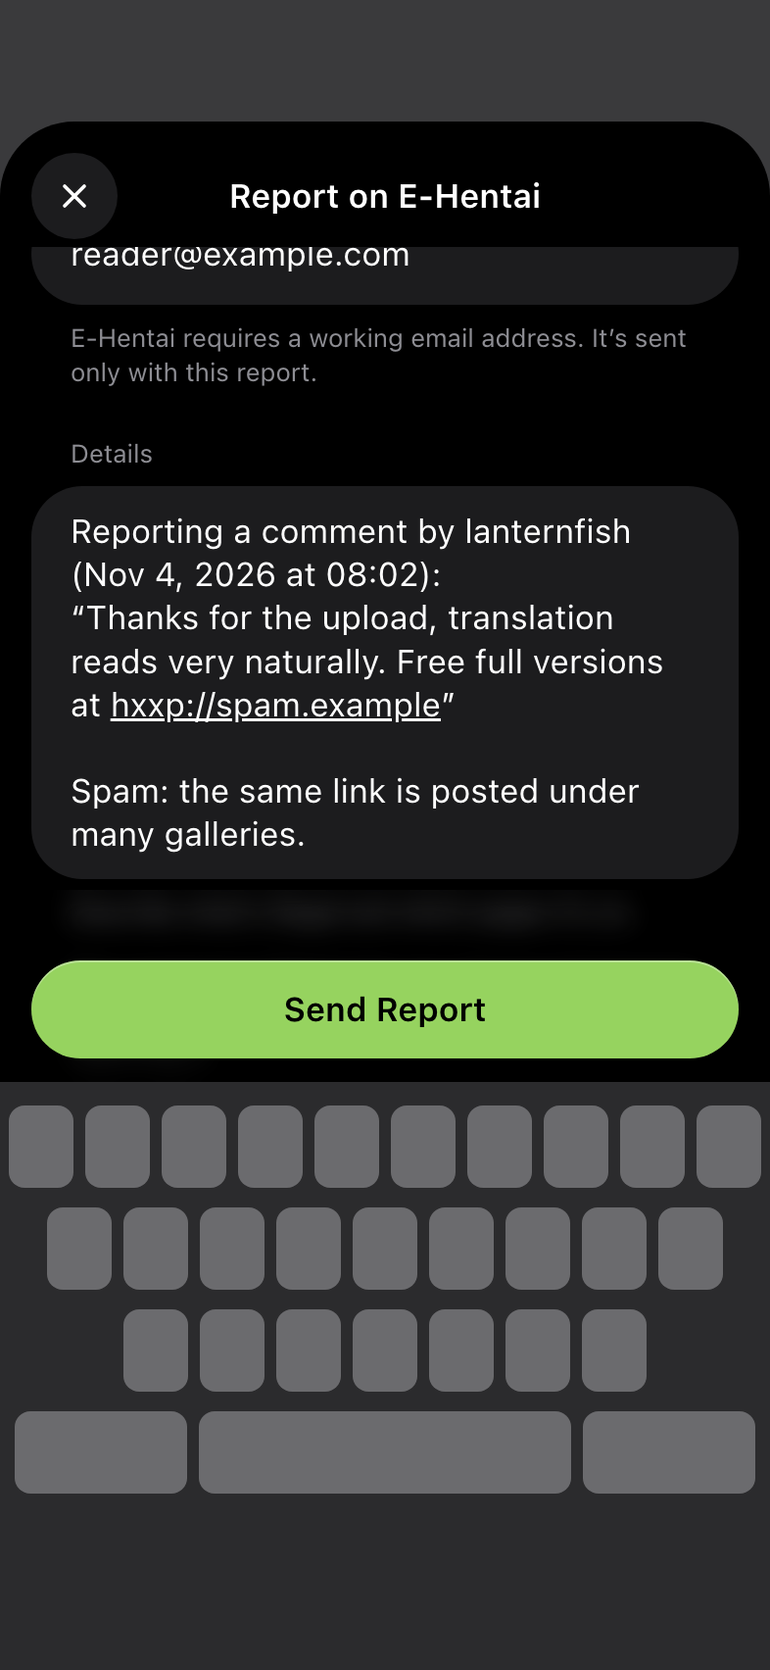
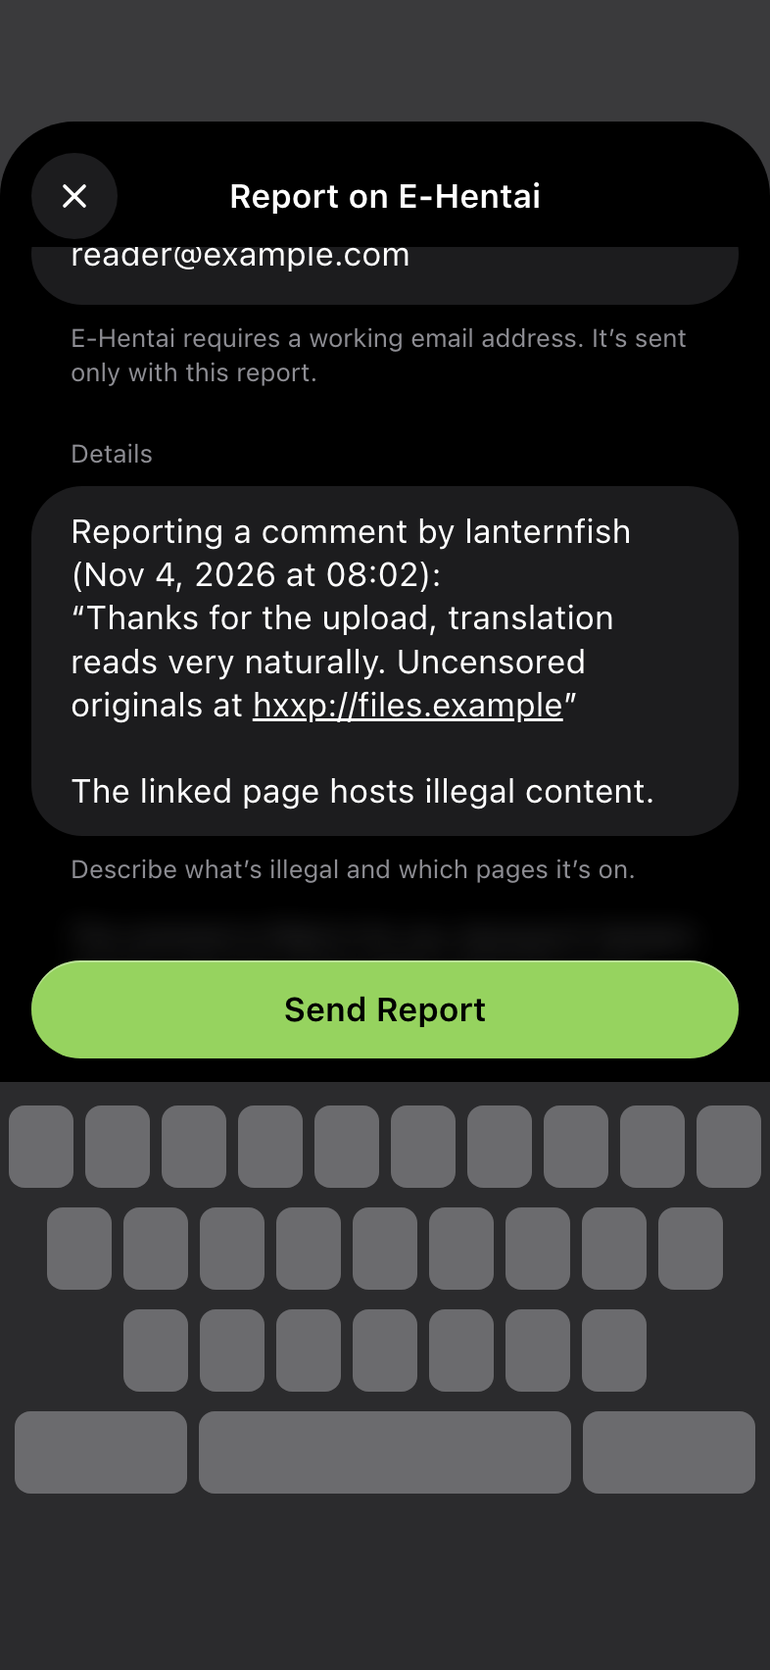
docs(18.1-04): complete the Report form view and UI tests plan
- 18.1-04-SUMMARY.md: eight task commits; DetailFeatureTests + UITestStubTests 181
  passed on both devices; the three UI classes pass on phone (45 + 2 skipped) and pad
  (46 + 1 skipped) with no retries; lint 0; both copy checks pass; the frame table for
  25-31, 33 and 34; deviations (slowLoad 6 s, holdSend 10 s, the frame-check view
  fixes, Command-Return in the iPad test, scroll to the linked comment at AX5)
- Mockups 25, 26, 27, 29 and 34: the refreshed frames with the illegal-content wording
- STATE: plan 4 of 5 done, metric and decision recorded, the frame 26 item resolved
- ROADMAP: 18.1 at 4/5, 18.1-04 checked
- UGC-18-01 is shared by all 18.1 plans, so REQUIREMENTS.md is unchanged

Changed region(s): [[0.0305, 0.4665, 0.9771, 0.5288], [0.0916, 0.3732, 0.855, 0.4354]]

diff --git a/.planning/phases/18.1-native-report-form/18.1-04-SUMMARY.md b/.planning/phases/18.1-native-report-form/18.1-04-SUMMARY.md
@@ -1,0 +1,236 @@
+---
+phase: 18.1-native-report-form
+plan: "04"
+subsystem: moderation-report-form-ui
+tags: [report, swiftui, sheet, liquid-glass, ui-tests, stubs, moderation]
+
+requires:
+  - "18.1-01 (ReportForm, the report URLs, the one-attempt send request)"
+  - "18.1-02 (the 22 report.* symbols)"
+  - "18.1-03 (ReportFormFeature, ReportFormClient, ReportPrefill, the .reportForm destinations)"
+provides:
+  - "`ReportFormView`: the C-13 sheet in its loading, ready, sending, sent, failed and unavailable states, presented from Comments and Detail"
+  - "`EHPANDA_UITEST_REPORT_SCENARIO` (ready, slowLoad, holdSend, failSend, unavailable), read only in DEBUG stubbed launches, with the ReportOther, ReportUnavailable and ReportSentStub fixtures"
+  - "`ReportFormUITests`: one UI test per C-13 state (frames 25–31, 33, 34), plus the strip entry and an accessibility audit"
+  - "`comment.report.confirm_title` / `_body` retired from the catalog and listed as retired in `18-copy-check.py`"
+affects: [18.1-05, 19]
+
+actuals:
+  tasks: 3
+  commits: 8
+
+tech-stack:
+  added: []
+  patterns:
+    - "Presenting the Report form sends its `.task` action from the presenting reducer, so the load starts without a view lifecycle hook and reducer tests see it"
+    - "A stub scenario picked by one launch key, read only when the network is stubbed and only in DEBUG, routes report queries before the gallery branch"
+    - "UI tests read a request log to prove what was posted (one POST, a second on Retry, none on an invalid email or ⌘↩ while not ready)"
+
+key-files:
+  created:
+    - AppPackage/Sources/DetailFeature/Moderation/ReportFormView.swift
+    - EhPandaUITests/ReportFormUITests.swift
+    - EhPandaUITests/Fixtures/ReportOther.html
+    - EhPandaUITests/Fixtures/ReportUnavailable.html
+    - EhPandaUITests/Fixtures/ReportSentStub.html
+  modified:
+    - AppPackage/Sources/DetailFeature/Comments/CommentsReducer.swift
+    - AppPackage/Sources/DetailFeature/Comments/CommentsView.swift
+    - AppPackage/Sources/DetailFeature/DetailReducer.swift
+    - AppPackage/Sources/DetailFeature/DetailReducer+Actions.swift
+    - AppPackage/Sources/DetailFeature/DetailView.swift
+    - AppPackage/Sources/DetailFeature/Resources/Localizable.xcstrings
+    - .planning/phases/18-in-app-3-0-readiness-age-wall-analytics-choice-comment-moder/18-copy-check.py
+    - AppPackage/Sources/AppFeature/UITestSupport/UITestStubURLProtocol.swift
+    - AppPackage/Sources/AppFeature/UITestSupport/UITestAutomation.swift
+    - AppPackage/Tests/AppFeatureTests/UITestStubTests.swift
+    - AppPackage/Tests/DetailFeatureTests/CommentModerationReducerTests.swift
+    - AppPackage/Tests/DetailFeatureTests/CommentsReducerTests.swift
+    - EhPandaUITests/Support/UITestConstants.swift
+    - EhPandaUITests/CommentModerationUITests.swift
+    - EhPandaUITests/AccessibilityAuditUITests.swift
+
+key-decisions:
+  - "The sheet is a `NavigationStack` with only the leading `Button(role: .close)` and the inline `comment.report` title. `.interactiveDismissDisabled` follows `isDismissLocked`. On iPhone it uses the large detent, on iPad the system form sheet"
+  - "The pinned bar is built like the first-launch gate's: `.safeAreaBar(edge: .bottom)` holding one `.glassProminent` `.controlSize(.large)` button, with no background, material or divider (grep 0). The form and the centred states set `.scrollEdgeEffectStyle(.soft, for: [.top, .bottom])`, following the app's scroll-edge policy, with the bottom edge under the bar"
+  - "The button's label follows the phase: Send Report, the spinner plus Sending…, Done, or Open Report Page. Labels swap with no animation. `.keyboardShortcut(.return, modifiers: .command)` is on the button, so ⌘↩ acts only when it is enabled"
+  - "The failed alert is built locally from the reducer's alert state, so Retry can be the default button (C-13 Failed) while the reducer keeps the Retry, Open Report Page, Cancel order"
+  - "Open Report Page presents the existing `ReportPageSheet` over the kept form (P-7). Both screens' `reportPage(URL)` destinations and their sheets are gone"
+  - "The slowLoad stub holds the form's GET for 6 s, holdSend holds the POST, failSend answers the POST with an error page, unavailable serves a page without `#reportform`, and ready serves ReportOther and then the ReportSentStub stand-in after the POST. No stub reaches e-hentai.org or exhentai.org"
+
+patterns-established:
+  - "18.1-05 runs the phase gate on both devices and in Release, then the agent-run Proxyman live check"
+
+requirements-completed: [UGC-18-01]
+
+coverage:
+  - id: T1
+    description: "ReportFormView, presentation and the retired keys"
+    verification:
+      - kind: automated
+        ref: "DetailFeatureTests + UITestStubTests: 181 passed (151 + 30) on $PHONE and on $PAD at 41398e24e; UITestStubTests 30 passed on $PAD at f45355fd9"
+        status: pass
+      - kind: script
+        ref: "soft scroll-edge count 2; .background|Material|Divider( 0; retired confirm keys in the catalog 0; 18-copy-check --self-test 22/22, 18-copy-check exit 0, 18.1-copy-check exit 0; SwiftLint 0.65.1 --strict 0 violations"
+        status: pass
+    human_judgment: false
+  - id: T2
+    description: "UI-test stubs for the Report form"
+    verification:
+      - kind: automated
+        ref: "UITestStubTests 30 passed on both devices (inside the 181), and again on $PAD after the holdSend change"
+        status: pass
+    human_judgment: false
+  - id: T3
+    description: "A UI test per C-13 state, the strip entry and the audit, compared against the frames"
+    verification:
+      - kind: automated
+        ref: "ReportFormUITests + CommentModerationUITests + AccessibilityAuditUITests at cfff03df8: $PHONE 47 tests, 45 passed, 2 skipped (iPad-only); $PAD 47 tests, 46 passed, 1 skipped (iPhone-only AX5); no retries"
+        status: pass
+      - kind: script
+        ref: "galleryOrigin|copyright|excupd|dmca|report_reason_revert grep 0; SwiftLint 0 violations in 152 files"
+        status: pass
+      - kind: manual
+        ref: "frame comparison table below (screenshots exported from the xcresults)"
+        status: pass
+    human_judgment: false
+
+duration: several sessions (2026-11-06 02:26Z to 2026-11-06 19:25Z)
+completed: 2026-11-06
+status: complete
+---
+# Phase 18.1 Plan 04: Report form view and UI tests Summary
+
+**Report on a comment now opens EhPanda's own Report form, drawn per UI-SPEC C-13 on iPhone and iPad. It shows two
+illegal-content reasons, an email that is never stored, the English prefill and the pinned Send Report button, and it
+falls back to the site's page. Each of the nine C-13 states has a UI test on stubbed network, and the screenshots were
+checked against frames 25–31, 33 and 34.**
+
+## Accomplishments
+
+- **The sheet (Task 1, `781536765`, fixed in `0866ba1a8`):**
+  - `ReportFormView` follows C-13 section by section: intro, Reason (two rows with a trailing accent checkmark and
+    `.isSelected`), Email with its keyboard modifiers and the red invalid footer with an announcement, Details with
+    `.lineLimit(5...)` and the footers that depend on the reason.
+  - Loading appears after 0.3 s. Unavailable is a `ContentUnavailableView` with no actions inside it. Sent shows the
+    64pt checkmark with a bounce (none under Reduce Motion), a success haptic and VoiceOver focus on the title, with
+    no Close or title. Failed is an alert over the kept form.
+  - Accessibility identifiers: `report_form`, `report_reason_<raw>`, `report_email`, `report_details`,
+    `report_primary_button`, `report_loading`, `report_unavailable`, `report_sent`, `report_illegal_warning`.
+  - CommentsView and DetailView present `.reportForm` as a sheet. The `reportPage(URL)` cases and sheets are gone.
+    The form presents `ReportPageSheet` itself.
+  - Catalog: `comment.report.confirm_title` and `_body` are removed. `18-copy-check.py` lists them as retired: a key
+    that is absent passes, a key that is present is a finding. A self-test case covers this (22/22 cases).
+- **Stubs (Task 2, `5eff640fa`, fixed in `125b92bcf` and `f45355fd9`):** `EHPANDA_UITEST_REPORT_SCENARIO` is read only in DEBUG and only
+  when the network is stubbed. Any other launch, or an unknown value, gets `ready`. Report queries are routed before
+  the `/g/` branch (F-2). Three fixtures were added, and `UITestStubTests` covers the routing for each scenario.
+- **UI tests (Task 3, `d5ba85692`, fixed in `41398e24e`, `f45355fd9` and `cfff03df8`):** `ReportFormUITests` has nine tests, one per C-13 state.
+  Each one launches stubbed with a request log and attaches screenshots.
+  - `CommentModerationUITests` now expects the form to open directly from the comments list and from a Detail strip
+    card, with no alert.
+  - `AccessibilityAuditUITests.testReportFormAudit` audits the ready form.
+
+## Tests
+
+| Run | $PHONE | $PAD |
+|-----|--------|------|
+| FeatureTests: `DetailFeatureTests` + `AppFeatureTests/UITestStubTests` | 181 passed, 0 failed | 181 passed, 0 failed |
+| UITests: `ReportFormUITests` + `CommentModerationUITests` + `AccessibilityAuditUITests` (light), final at `cfff03df8` | 47: 45 passed, 2 skipped (`testThePadFormSheetAndCommandReturn`, `testPadSettingAndDetailModalsAudit`, iPad only), no retries | 47: 46 passed, 1 skipped (`testTheLargestTextSizeKeepsTheButtonInReach`, iPhone only), no retries |
+| UITests, dark appearance: ready, typing, failed and unavailable (frames 26, 29, 30), at `41398e24e` | 4 passed | — |
+| UITests, whole plan, at `41398e24e` | 131: 110 passed, 21 skipped, 0 failed | 131: 112 passed, 18 skipped, 1 failed (`testSendingLocksTheSheet`, deviation 7; passes at `f45355fd9`) |
+| `UITestStubTests` after the holdSend change (`f45355fd9`) | — | 30 passed |
+| SwiftLint 0.65.1 `--strict --no-cache`, DetailFeature, AppFeature, their tests and EhPandaUITests | 0 violations in 152 files | |
+| Copy checks | `18-copy-check.py --self-test` 22/22; `18-copy-check.py` 36 keys × 6 locales, 60 retired texts absent; `18.1-copy-check.py` 22 keys × 6 locales | |
+| Plan greps | soft scroll-edge 2; bar background/material/divider 0; retired confirm keys 0; gallery/copyright 0 | |
+
+The first pad run of the three classes failed `testThePadFormSheetAndCommandReturn`, because ⌘↩ never reached the
+button (see deviation 3). After `41398e24e` the pad run passed. The whole-plan runs found two timing failures in this
+plan's tests: the pad sending test (deviation 7) and, in a later phone class run, the AX5 test (deviation 8). Both
+are fixed, and the three classes then passed on both devices with no retries. The whole plan was not run again
+after those two test-only fixes. 18.1-05's gate runs it on both devices. The known pad flake
+(`ReaderRebuildUITests`) did not fail. The dark run switched the phone simulator to dark and
+then back to light. No simulator was erased.
+
+No request was made to e-hentai.org or exhentai.org. Every UI test launches with the stubbed network, and the request
+log shows exactly one POST per send (two after Retry), to `/g/3103480/0000000000/`.
+
+## Frame Comparison (UI-SPEC C-13)
+
+The screenshots were exported from the xcresults, phone `FFE7E686` and pad `B470DB46`. Differences that apply to every
+frame:
+
+- The fixture data is the stub's: a Chinese comment, the UTC date from `ReportPrefill`, and `tester@example.com`.
+- The status bar is the simulator's.
+- The section headers (Reason, Email, Details) use the OS 27 system header style, which is larger and semibold. The
+  frames draw small regular headers. C-13 names the system section header, not a font, and the text wins.
+- Apostrophes are straight, as in the approved catalog strings that both copy checks verify. The frames draw curly
+  ones.
+
+| Frame | State | Screenshot | Result | Note |
+|-------|-------|------------|--------|------|
+| 25 | Ready, light | `report-25-ready` (phone light and dark; pad) | match | Close only, inline "Report on E-Hentai", two unpicked reasons, empty email, the prefill, dimmed Send Report on the bar with no background |
+| 26 | Typing, dark | `report-26-typing`, `report-26-invalid-email` (phone dark) | match | Other illegal content picked with an accent checkmark and rows in primary text (fixed in `0866ba1a8`). Shows the warning footer, the Details text "The linked page hosts illegal content." and the illegal-content help above the comment footer. The invalid shot shows the red footer with `exclamationmark.circle`. The frame is scrolled with the keyboard up; the test shot is at the top |
+| 27 | Sending, light | `report-27-sending` (phone, pad) | match | Spinner at regular size on the label's line plus "Sending…" (fixed in `0866ba1a8`). The form and Close are dimmed and a swipe keeps the sheet |
+| 28 | Sent, light | `report-28-sent` (phone, pad) | match | 64pt accent checkmark, "Report Sent", body, Done. No Close or title |
+| 29 | Failed, dark | `report-29-failed`, `report-29-site-page` (phone dark) | match | Alert over the kept form: Retry (default, fixed in `0866ba1a8`), Open Report Page, Cancel. Send Report stays live under it. The site page opens over the form |
+| 30 | Unavailable, dark | `report-30-unavailable` (phone dark) | match | Triangle, title and body with no actions inside. The bar reads Open Report Page |
+| 31 | Loading, light | `report-31-loading` (phone, pad) | match | Centred spinner over "Loading the report form…", Close, dimmed Send Report |
+| 33 | Largest text (AX5), iPhone | `report-33-ax5` (phone) | match | Intro, Reason and rows wrap. The button grows (≥ 50pt) and stays hittable. Close keeps the system size. In the test no reason is picked, so the button is dimmed; the frame draws it enabled. That is a state difference, not a layout one |
+| 34 | iPad form sheet, light | `report-34-ipad-ready`, `report-34-ipad` (pad) | match | Form sheet, not full screen, with the bar at the sheet's bottom. ⌘↩ sends when the form is ready (one POST) and sends nothing before |
+
+Frame 32 is withdrawn and has no test. The refreshed frames 25, 26, 27, 29 and 34 were found uncommitted in the
+working tree with the illegal-content Details wording. They are committed with this summary. With them, the earlier
+open item ("frame 26 shows a leftover 'Spam:'") no longer applies.
+
+## Deviations from Plan
+
+1. **[Rule 1] slowLoad holds for 6 s, not 2 s (`125b92bcf`).** The spinner appears after 0.3 s, but the test can read
+   it only once the sheet is up, about 3 s after the comment's menu. With a 2 s hold the form finished loading first.
+2. **[Rules 1/2] View fixes from the frame check (`0866ba1a8`).**
+   - Reason rows were drawn in the tint; they now use primary text.
+   - The intro was faded twice inside the header.
+   - Retry was not the alert's default button.
+   - The sending spinner was small.
+   - The top scroll edge was missing.
+   All were fixed in the view. None is recorded as an accepted difference.
+3. **[Rule 1] ⌘↩ in the iPad test (`41398e24e`).** On the iPad simulator, `typeKey(.return, modifierFlags: .command)`
+   never reached the button's shortcut, while `"\n"` with Command did. Probes showed that ⌘A and plain keys arrive.
+   Only the test changed; the view's `.keyboardShortcut(.return, modifiers: .command)` stays.
+4. **Test Details text.** The typed Details line is "The linked page hosts illegal content.", matching the refreshed
+   frames' illegal-content wording rather than a spam reason, which C-13 excludes.
+5. **[Rule 3] Files outside the plan's list.**
+   - `DetailReducer+Actions.swift`: Detail's present-the-form branch now sends the form's `.task`, as Comments does.
+   - `CommentModerationReducerTests.swift` and `CommentsReducerTests.swift`: the existing destination tests receive
+     that load.
+   - `EhPandaUITests/Support/UITestConstants.swift` (listed) holds the scenario key.
+6. **The refreshed mockups 25, 26, 27, 29 and 34** are in the docs commit. See the frame comparison.
+7. **[Rule 1] holdSend holds for 10 s, not 3 s (`f45355fd9`).** In the full pad run, `testSendingLocksTheSheet` failed
+   with "A swipe down closed the sheet". The activity log showed the swipe 3.7 s after the tap. The 3 s hold had
+   already ended, so the sheet was in Sent, where a swipe correctly dismisses it. The test now waits up to 20 s for
+   Sent.
+8. **[Rule 1] The UI tests scroll to the linked comment when the link stops short (`cfff03df8`).** In one phone class
+   run, `testTheLargestTextSizeKeepsTheButtonInReach` failed all three attempts with "EhPanda did not present
+   comment_cell_6894060". The hierarchy showed the comments list at its first three comments: at AX5 the link's
+   `scrollTo` had not reached the comment. Run alone, the test passed. `openReportForm` now waits 15 s as before,
+   then swipes the list up (at most 8 times) until the row exists. The app's link scroll is Phase 18 code and is
+   unchanged. It is recorded below as an open item.
+
+## Open Items (non-blocking, for the lead)
+
+- **A comment link at AX5 sometimes stops short of its comment.** `CommentsView`'s
+  `proxy.scrollTo(scrollCommentID, anchor: .top)` left the list at the top in one run (three attempts in a row) and
+  worked in four others. This was seen only at the largest text size, where rows reach 1,000pt. It is not part of
+  this plan; the UI tests now scroll as a reader would.
+
+## Decisions
+
+See `key-decisions` above.
+
+## Self-Check
+
+- Commits `781536765`, `5eff640fa`, `125b92bcf`, `0866ba1a8`, `d5ba85692`, `41398e24e`, `f45355fd9` and `cfff03df8`
+  are signed (`G`) and dated `+08:00` twice.
+- `report.reason.choose` remains approved but unused (C-13 has no picker). This is unchanged and carried in STATE.
+- UGC-18-01 is shared by all five 18.1 plans, so REQUIREMENTS.md is unchanged.
+
+Ready for 18.1-05.

diff --git a/.planning/STATE.md b/.planning/STATE.md
@@ -4,16 +4,16 @@ milestone: v3.0.0
 current_phase: "18.1"
 current_phase_name: Native report form
 status: executing
-stopped_at: Completed 18.1-03-PLAN.md
-last_updated: "2026-11-06T02:24:00.000Z"
+stopped_at: Completed 18.1-04-PLAN.md
+last_updated: "2026-11-06T19:25:00.000Z"
 last_activity: 2026-11-06
-last_activity_desc: Plan 18.1-03 complete (ReportFormFeature, its client and prefill; Report opens the form from both screens)
-state_head: 461e4a37c0ac4019a354579651a569047e5ba95d
+last_activity_desc: Plan 18.1-04 complete (the Report form sheet per C-13, its UI-test stubs and a UI test per state on iPhone and iPad)
+state_head: cfff03df8bc225503f8bf8f7cc77aff49d211f8e
 progress:
   total_phases: 21
   completed_phases: 17
   total_plans: 304
-  completed_plans: 302
+  completed_plans: 303
   percent: 81
 milestone_name: Dependency Reduction & Modernization
 source_head: b5eca09d1
@@ -36,9 +36,9 @@ mockups (01–04, 16–18 and 20 re-rendered; 25–31, 33 and 34 added; 32 withd
 - **Plans:** Wave 1: 18.1-01 (parser, report URL, requests), 18.1-02 (23 strings, copy check). Wave 2: 18.1-03
   (reducer, routing). Wave 3: 18.1-04 (view, stubs, a UI test per C-13 state). Wave 4: 18.1-05 (gate, then the
   agent-run Proxyman live check, the phase's only checkpoint).
-- **Open, non-blocking:** what the site returns after a real report (Research OQ-1, default DD-03); frame 26 shows a
-  leftover "Spam:" in Details (for Colo through the lead); `report.reason.choose` is approved but unused by C-13 (for
-  the lead).
+- **Open, non-blocking:** what the site returns after a real report (Research OQ-1, default DD-03); frame 26 showed a
+  leftover "Spam:" in Details (resolved: the refreshed frames, committed with 18.1-04, use the illegal-content
+  wording); `report.reason.choose` is approved but unused by C-13 (for the lead).
 
 Next: `/gsd-execute-phase 18.1`.
 
@@ -1031,6 +1031,7 @@ Phase 18 verification passed 10/10 on 2026-11-05 at `c2619c7a3` (tested source `
 | Phase 18.1 P01 | 20 min | 2 tasks | 11 files |
 | Phase 18.1 P02 | 25 min | 1 tasks | 3 files |
 | Phase 18.1 P03 | 25 min | 2 tasks | 11 files |
+| Phase 18.1 P04 | several sessions | 3 tasks | 20 files |
 
 ## Accumulated Context
 
@@ -1607,6 +1608,7 @@ Recent decisions affecting current work:
 - [Phase 18.1]: 18.1-01: the report POST is sent once (attempts: 1) to the gallery's ?report=<type> URL, never the page's form action; a reply is sent only when it is not a site error page and no longer shows #reportform. The form GET keeps the default retries. — Research F-1 and DD-02/DD-03: a retried POST can file duplicate reports, a page's action could point elsewhere, and an error page has no #reportform.
 - [Phase 18.1]: 18.1-02: 22 report.* keys ship in DetailFeature's catalog in six languages, verbatim from 18.1-COPY-REPORT-FORM.md; report.reason.choose does not ship (lead, msgs 1980/1983: C-13 has no picker). 18.1-copy-check.py fails on a missing, reworded, empty or unapproved report.* key and on any of the six gallery-only keys or report.reason.choose. — 18.1-04 uses the generated symbols and retires comment.report.confirm_title/_body.
 - [Phase 18.1]: 18.1-03: Report on a foreign comment sends CommentModerationFeature.delegate(.openReportForm(ReportFormFeature.State)) and Comments/Detail present destination .reportForm; the confirm alert is gone. ReportFormFeature.State has a failable init (nil without a report target); phases loading/ready/sending/sent/unavailable, a failed send returns to ready with Retry / Open Report Page / Cancel; canSend needs a reason, a trimmed non-empty email and Details beyond the prefill; DD-05 email check on Send; isDismissLocked while sending or edited (not once sent); the email lives only in state. — 18.1-04 renders the form, presents .reportForm in both views, removes reportPage(URL) and the retired confirm keys, and updates CommentModerationUITests (its report case expects the old alert until then).
+- [Phase 18.1]: 18.1-04: ReportFormView renders every C-13 state in a NavigationStack sheet with only the leading Close, the inline "Report on {site}" title and a pinned .safeAreaBar .glassProminent button with no background (soft scroll edge top and bottom). Comments and Detail present .reportForm, and presenting sends the form's .task from the reducer. The failed alert is built in the view so Retry is the default, in the reducer's Retry / Open Report Page / Cancel order. Open Report Page presents ReportPageSheet over the kept form. reportPage(URL) and comment.report.confirm_title/_body are gone, and 18-copy-check.py lists the two keys as retired. EHPANDA_UITEST_REPORT_SCENARIO (ready, slowLoad 6 s, holdSend 10 s, failSend, unavailable) is DEBUG and stubbed-launch only. ReportFormUITests has one test per state (frames 25–31, 33, 34) and passes on both devices. — 18.1-05 runs the gate (whole UITests plan on both devices, Release scan for EHPANDA_), then the Proxyman live check. Open: at AX5 a comment link's scrollTo sometimes stops short of the comment (Phase 18 code; the tests now scroll to it).
 
 ### Phase 16 transition decisions (2026-09-23)
 
@@ -1723,8 +1725,8 @@ Items acknowledged and carried forward from previous milestone close:
 
 ## Session Continuity
 
-Last session: 2026-11-06T02:24:00.000Z
-Stopped at: Completed 18.1-03-PLAN.md
+Last session: 2026-11-06T19:25:00.000Z
+Stopped at: Completed 18.1-04-PLAN.md
 Resume file: None
 
 Earlier stop (2026-10-13T10:50:00Z, historical): 17-06 revision re-shot, 16/16 captured (`.capture/17-06-t-native-*`); superseded by the owner's 2026-11-02 approval of the 192-image website set.

diff --git a/.planning/ROADMAP.md b/.planning/ROADMAP.md
@@ -714,7 +714,7 @@ Phases execute in numeric order: 1 → 2 → 3 → 4 → 5 → 6 → 7 → 8 →
 | 16. Dynamic Type Accessibility | 26/26 | Complete    | 2026-09-23 |
 | 17. Screenshot Automation, Visual Regression & OS 27 Modernization | 13/13 | Complete    | 2026-11-05 |
 | 18. In-App 3.0 Readiness: Age Wall, Analytics Choice, Comment Moderation & Reader Rework | 12/12 | Complete    | 2026-11-06 |
-| 18.1. Native report form (INSERTED) | 3/5 | In Progress |  |
+| 18.1. Native report form (INSERTED) | 4/5 | In Progress |  |
 | 19. Visual Regression & Daily Live-Parsing Check | 0/TBD | Not started|  |
 | 20. 3.0 Distribution: Marketplace Build, Notarization, Listing & Release Checks | 0/TBD | Not started|  |
 
@@ -1444,7 +1444,7 @@ Plans:
   5. FeatureTests and a UI test for each C-13 state pass on iPhone and iPad; lint is clean; the Release product carries no UI-test key.
   6. An agent's live check on the real site, with Proxyman blocking the report POST, shows the form loaded and the request built correctly, with no report filed (owner msgs 1933, 1652).
 
-**Plans:** 3/5 plans executed
+**Plans:** 4/5 plans executed
 
 Plans:
 
@@ -1456,7 +1456,7 @@ Plans:
 - [x] 18.1-03-PLAN.md — `ReportFormFeature` reducer, client and English prefill; Report routed to the form from both screens
 
 **Wave 3** *(blocked on Wave 2 completion; UI tasks follow the committed UI-SPEC C-13)*
-- [ ] 18.1-04-PLAN.md — `ReportFormView` per C-13, the retired confirm keys, UI-test stubs and a UI test for each state
+- [x] 18.1-04-PLAN.md — `ReportFormView` per C-13, the retired confirm keys, UI-test stubs and a UI test for each state
 
 **Wave 4** *(blocked on Wave 3 completion)*
 - [ ] 18.1-05-PLAN.md — phase gate on both devices and in Release, then the agent-run Proxyman live check (the phase's only checkpoint)
